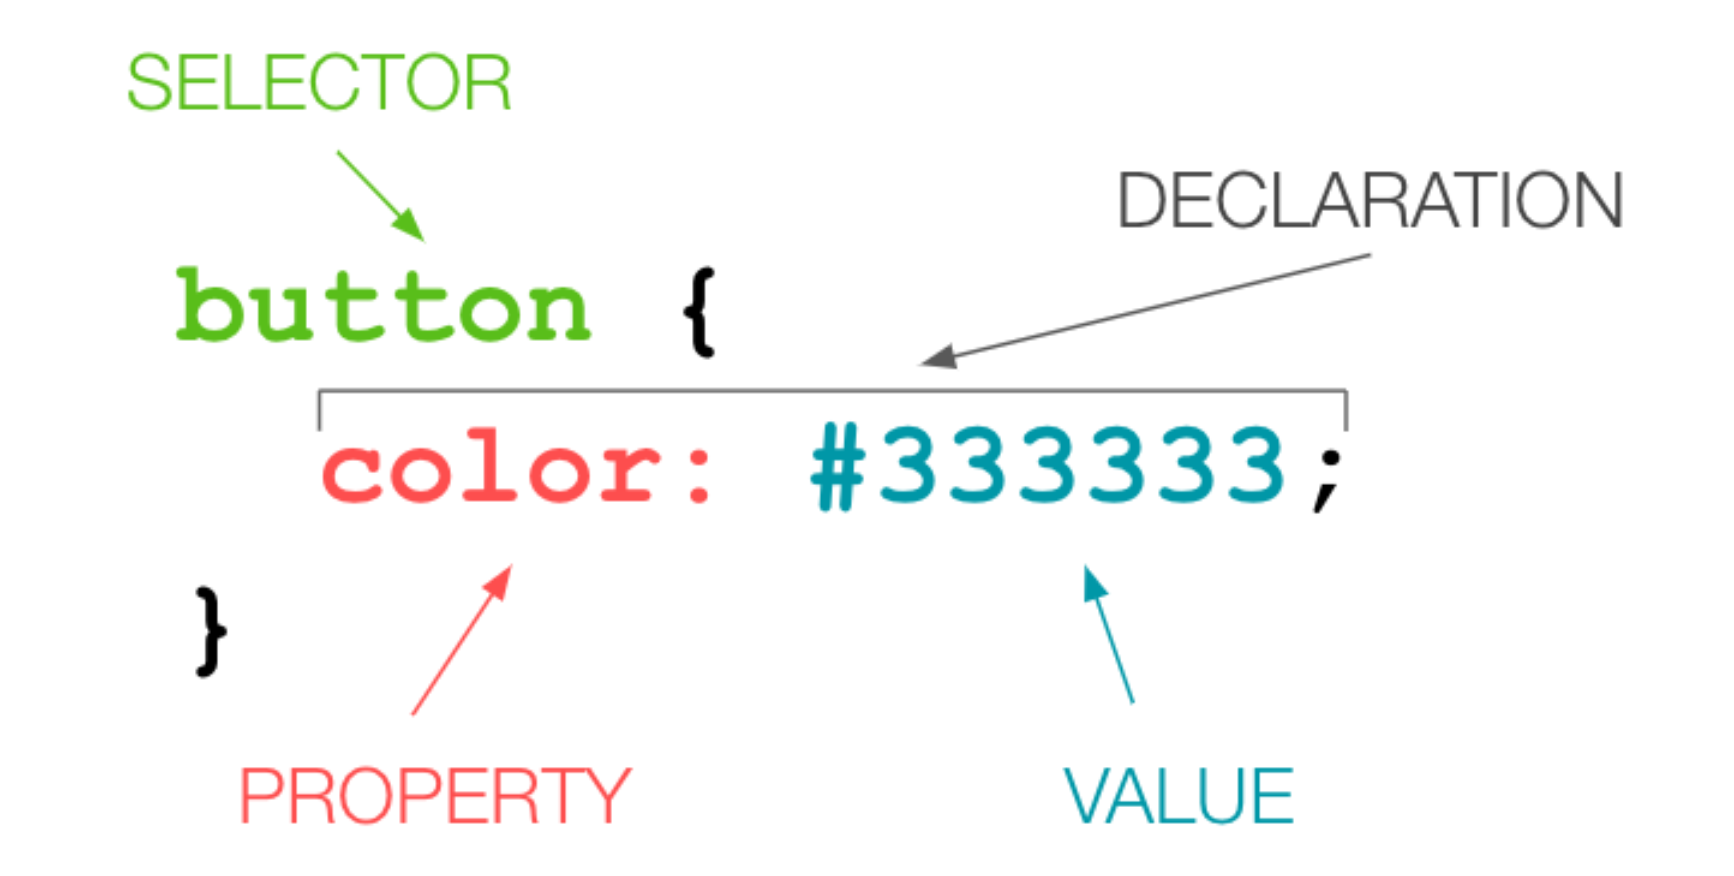
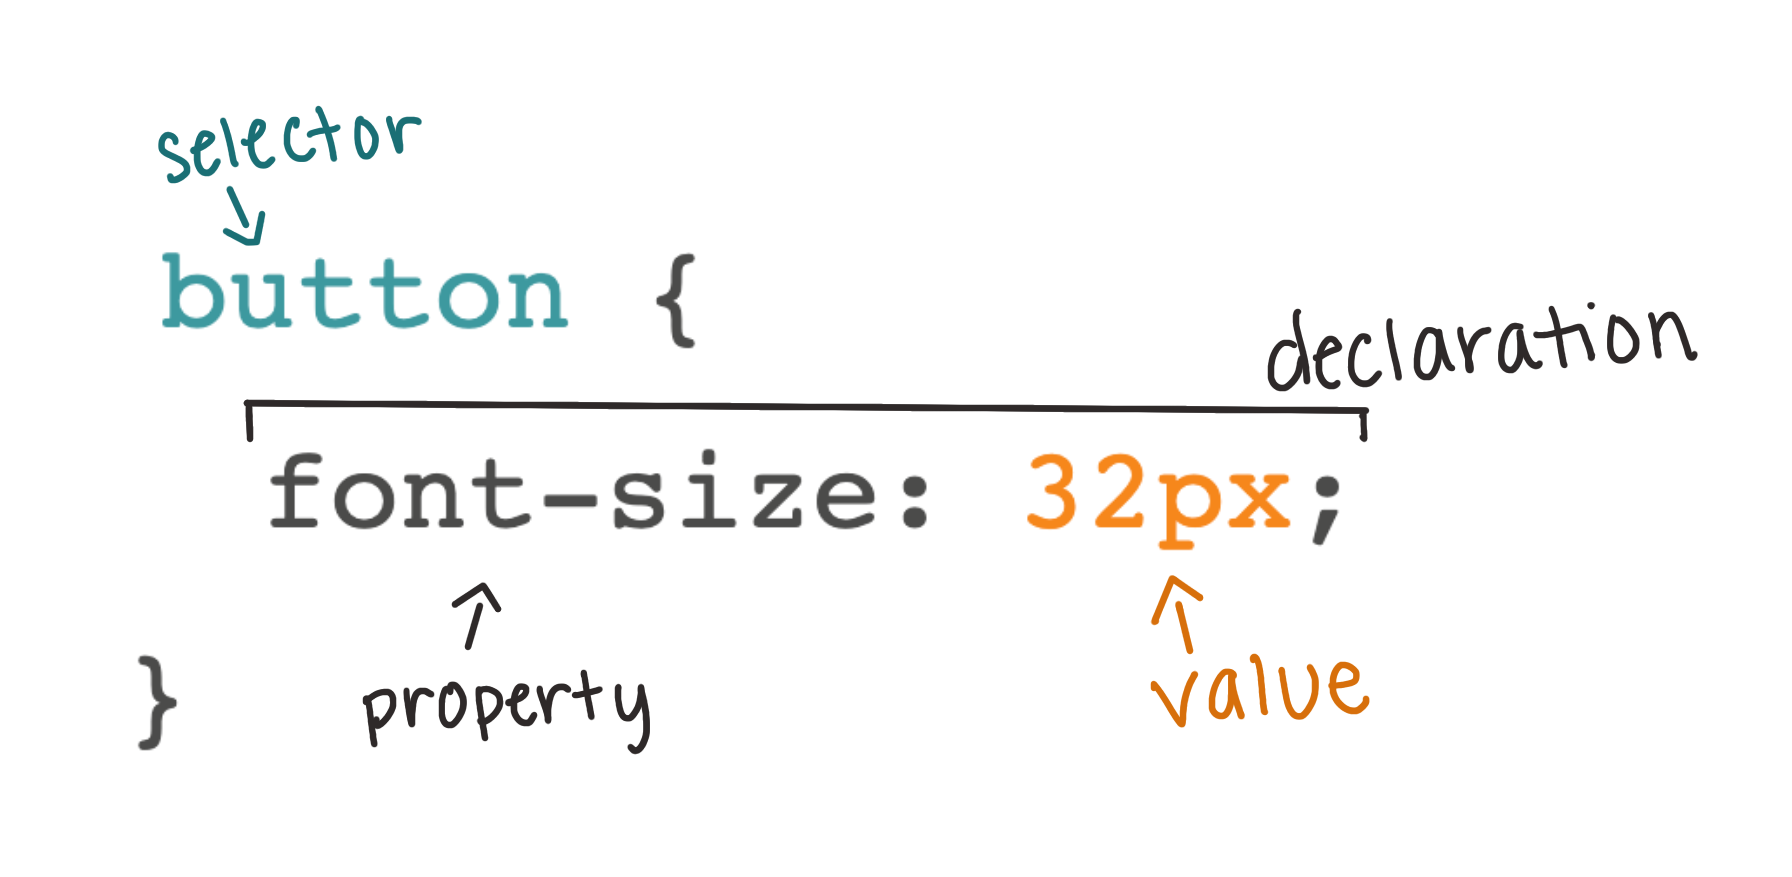
Update FE Weekend curriculum, clean up

diff --git a/fe-weekend/intro-to-css/index.md b/fe-weekend/intro-to-css/index.md
@@ -11,6 +11,8 @@ layout: lesson
 - Style HTML element using CSS rules
 - Use class and ID attributes on HTML elements to more specifically target them in CSS
 
+>For this section, you'll build on the HTML you wrote as part of the pre-work for today!
+
 ## What is CSS?
 
 CSS is a way to add style to HTML documents on the web. It's incredibly powerful!
@@ -22,21 +24,22 @@ While CSS is typically used to control the layout and details of the way a site 
 ## CSS Rules
 
 How do we write CSS code that instructs the browser to make elements appear differently? We write CSS **rules** - a set of instructions for each element to follow.
+<br>
 ![A CSS rule for a button with a color of #333333 and font-size of 32px. The button is labeled selector, color: #333333 is labeled declaration, font-size: is labeled property and 32px is labeled value.](../assets/css-syntax-breakdown.png)
 
 ```css
 button {
-  color: #333333;
+  font-size: 32px;
 }
 ```
 
-In the previous example, the browser will set the color of any button on the page to `#333333`. We can provide multiple declarations inside of a rule, such as:
+In the previous example, the browser will set the font-size of the font within any button on the page to `32px`. We can provide multiple declarations inside of a rule, such as:
 
 ```css
 button {
-  color: #333333;
-  border: 2px solid pink;
-  font-family: Ariel;
+  font-size: 32px;
+  font-family: sans-serif;
+  border-radius: 3px; /* rounds the corners */
 }
 ```
 
@@ -65,8 +68,11 @@ Here are a few great places to start:
 
 <div class="try-it-new">
   <h3>Try It: Exploring CSS</h3>
-  <p>Write a CSS rule that targets the paragraphs, then change their <code class="try-it-code">background-color</code> and <code class="try-it-code">font-size</code>.</p>
-  <p>Next, write a rule that targets the main heading - change the <code class="try-it-code">color</code> of the text and add a <code class="try-it-code">border</code>.</p>
+  <ul>
+    <li>Write a CSS rule that targets the paragraphs, then change their <code class="try-it-code">background-color</code> and <code class="try-it-code">font-size</code>.</li>
+    <li>Write a rule that targets image(s) - change the dimensions to your liking.</li>
+    <li>Write a rule that targets the main heading - change the <code class="try-it-code">color</code> of the text and add a <code class="try-it-code">border</code>.</li>
+  </ul>
   <p>Continue to explore and add declarations to make the site your own!</p>
 
   <div class="spicy-container">
@@ -110,8 +116,8 @@ To target them in CSS, we need to use a specific syntax:
 
 <div class="try-it-new">
   <h3>Try It: Classes & IDs</h3>
-  <p>In the CSS text editor, use a class attribute to give the same styles to 2 of your paragraphs, but not to the other(s).</p>
-  <p>Based on how you'd like to style your page, if you see the need for other classes or IDs, go ahead and implement them!</p>
+  <p>In the HTML text editor, add a class attribute to at least 2 of your paragraphs. In the CSS text editor, use that class to give the same styles to 2 of your paragraphs, but not to the other(s).</p>
+  <p>Based on how you'd like to style your page, if you see the need for additional classes or IDs, go ahead and implement them!</p>
   <p>As you are probably in the habit of by now, observe the changes in the browser.</p>
 </div>
 

diff --git a/fe-weekend/event-listeners/index.md b/fe-weekend/event-listeners/index.md
@@ -24,25 +24,10 @@ Let's look at this example of an event listener and talk through the pieces:
 
 <p class="codepen" data-height="265" data-theme-id="default" data-default-tab="html,result" data-user="turing-trycoding" data-slug-hash="oNxaYbb" style="height: 265px; box-sizing: border-box; display: flex; align-items: center; justify-content: center; border: 2px solid; margin: 1em 0; padding: 1em;" data-pen-title="Event Listeners Example"><span>See the Pen <a href="https://codepen.io/turing-trycoding/pen/oNxaYbb">Event Listeners Example</a> by Try Coding (<a href="https://codepen.io/turing-trycoding">@turing-trycoding</a>)on <a href="https://codepen.io">CodePen</a>.</span></p><script async src="https://static.codepen.io/assets/embed/ei.js"></script>
 
-## Break Things
-
-Earlier, we talked about the mindsets developers must have to be successful: a growth mindset, demonstrated by being curious, resourceful, communicative, and not being afraid to question how things work.
-
-We're going to take a few minutes to really "break" this code to build a deeper understanding of how it's working. If you've had that feeling of "I think I get it, but I couldn't recreate it" or "I basically get this... but if I had to identify one little error, I'd struggle to find it on my own", you are not alone.
-
-When we "break" code, we are engaging in a process of tinkering with it to better understand it. To identify which piece of code plays which role in the functionality, it's important to only **break one tiny thing at a time**!
-
-<p class="codepen" data-height="265" data-theme-id="default" data-default-tab="js,result" data-user="turing-trycoding" data-slug-hash="OJNBbMx" style="height: 265px; box-sizing: border-box; display: flex; align-items: center; justify-content: center; border: 2px solid; margin: 1em 0; padding: 1em;" data-pen-title="Break Things"><span>See the Pen <a href="https://codepen.io/turing-trycoding/pen/OJNBbMx">Break Things</a> by Try Coding (<a href="https://codepen.io/turing-trycoding">@turing-trycoding</a>)on <a href="https://codepen.io">CodePen</a>.</span></p><script async src="https://static.codepen.io/assets/embed/ei.js"></script>
-
-- What happens if you remove lines 2-4 from the JavaScript?
-- Bring back lines 2-4, now remove line 5. What happens?
-- Bring back line 5. Remove lines 8-12. What happens?
-- Why isn't the image changing? Look at line 3 in HTML and line 5 in JS to see if you can identify the problem.
-
 ## Applying What We've Learned
 
 <div class="try-it-new">
-  <h2>Try It: Changing HTML with JavaScript</h2>
+  <h3>Try It: Changing HTML with JavaScript</h3>
   <p>Back in your own Puppy Facts CodePen, add a button in the HTML.</p>
   <p>Write code in the JavaScript pane so that when the button is clicked, the title of the webpage changes to a different topic!</p>
   <p>If you complete that with extra time, change the text in the <code>p</code> tags so that when the button is clicked, the facts match your new topic!</p>

diff --git a/fe-weekend/interacting-with-html/index.md b/fe-weekend/interacting-with-html/index.md
@@ -34,10 +34,10 @@ console.log(greetingMessage);
 ```
 
 <div class="try-it-new">
-  <h2>Try It: Accessing HTML Elements</h2>
-  <p>Fork <a href="https://codepen.io/turing-trycoding/pen/dyMgOoM?editors=1010" target="blank">this Puppy Facts CodePen starter</a>. Declare four variables, each storing one of the four text-based HTML elements already written. You can decide the variable names to use! In order to access each element, you'll need a <em>unique</em> way to identify each one.</p>
+  <h3>Try It: Accessing HTML Elements</h3>
+  <p>Fork <a href="https://codepen.io/turing-trycoding/pen/dyMgOoM?editors=1010" target="blank">this Puppy Facts CodePen starter</a>. Declare three variables, each storing one of the three <code>paragraph</code> elements already written in HTML. You can decide the variable names to use! In order to access each element, you'll need a <em>unique</em> way to identify each one. <em>This has already been done with the <code>h1</code> element; you can use that as an example.</em></p> 
   <p>Print each variable out to the console to verify your syntax is correct.</p>
-  <p><em>Keep this pen open in a tab; we'll come back to it in the next section!</em></p>
+  <p><span role="img" aria-label="open folder">📂</span> Keep this pen open in a tab; we'll come back to it in the next section!</p>
   <div class="help-container">
     <button class="help-click"><span role="img" aria-label="raised hand">🤚</span>Help Me!</button>
     <div class="help-toggle">
@@ -54,16 +54,16 @@ Accessing elements alone isn't _that_ cool, but it gets more exciting when we us
 
 Before we talk through it, take a minute to sit in that productive struggle and **try to sort through what this code is doing, and how**. The guiding questions below will help you, if you need them!
 
-- What is the content inside of each of the `<li>` tags in the HTML file?
+- What is the content inside of each of the `<a>` tags in the HTML file?
 - What content is showing up in the browser for each of the bullet points?
 - On line 4 of the code:
-  - What does `firstListItem` reference?
+  - What does `firstLink` reference?
   - What _might_ `.innerText` be doing?
   - Does `"Front End Workshop"` look familiar?
 
 <div class="try-it-new">
-  <h2>Try It: Changing Text of an Element</h2>
-  <p>Back in your Puppy Facts CodePen, write JavaScript that will change the content of all four text-based HTML elements you created variables for earlier.</p>
+  <h3>Try It: Changing Text of an Element</h3>
+  <p>Back in your Puppy Facts CodePen, write JavaScript that will change the content of the <code>h1</code> and three <code>paragraph</code> elements you have variables for.</p>
   <p>When you've completed this, you should see a different title and set of facts in your browser!</p>
   <a target="blank" href="https://codepen.io/turing-trycoding/pen/LYNgbpp"><em>Here's a CodePen you can start with if you closed yours or didn't get it done.</em></a>
   <br>

diff --git a/fe-weekend/intro-to-js/index.md b/fe-weekend/intro-to-js/index.md
@@ -58,7 +58,7 @@ When we run the code above, we will see the associated values print out in the c
 
 A variable is like a box with a label on it. You can put something in the box, label it, and be able to reference that thing later by its label.
 
-In JavaScript, we declare variables using the `var` keyword. This tells JavaScript that we're about to make a variable.
+In JavaScript, we declare variables using the `var` keyword. This tells JavaScript that we're about to make a new variable, or _declare a variable_.
 
 Variables can store strings (text in between quotation marks), numbers, HTML elements, among many other things! Here are a few examples of JavaScript variables:
 
@@ -78,11 +78,11 @@ Since JavaScript is in charge of user interactions, we may want to hold onto a p
 Variables are at the core of everything we do in programming and this isn't unique to JavaScript.
 
 <div class="try-it-new">
-  <h2>Try It: Variables</h2>
+  <h3>Try It: Variables</h3>
   <p>Create a new pen in CodePen. For this exercise, you will be working in the JavaScript (JS) pane.</p>
-  <p>Declare 4 variables, using the names <code>name</code>, <code>email</code>, <code>numberOfPets</code>, and<code>myLocation</code>. Assign each to an appropriate value.</p>
+  <p>Declare 3 variables, using the names <code>name</code>, <code>email</code>, and <code>numberOfPets</code>. Assign each to an appropriate value.</p>
   <p>Make sure to <code>console.log</code> each variable to verify you've stored it correctly!</p>
-  <p>Finished? Declare at least two more variables - you choose the name and values!</p>
+  <p>Finished? Declare at least 2 more variables - you choose the name and values!</p>
 </div>
 
 ## Interpolation
@@ -101,7 +101,7 @@ Note that _back ticks_ are the characters that surround this combination of the 
 Anything inside the back ticks will be read as a string. But, when the interpreter sees the `${`, it will stop and wait for JavaScript code to read. Typically, we provide a variable name here. When the interpreter read the matching closing bracket - `}` - it goes back to treating characters as part of the string.
 
 <div class="try-it-new">
-  <h2>Try It: Interpolation</h2>
+  <h3>Try It: Interpolation</h3>
   <p>Using interpolation and at least two of the variables you declared in the previous section, write a sentence about yourself! Make sure to print that sentence out to the console.</p>
   <p>Change the value of one of the Strings you interpolated and re-run your code. Is the difference reflected in the output?</p>
 

diff --git a/fe-weekend/what-is-fee/index.md b/fe-weekend/what-is-fee/index.md
@@ -60,9 +60,25 @@ There's a common misconception that the Front-End is only about colors, fonts, a
 
 The Front-End of the web is based on three major technologies:
 
-1. **HTML**: HyperText Markup Language (HTML) defines the structure and semantics of web pages on the web.
-2. **CSS**: Cascading Style Sheets (CSS) sets the look and style of a web page. CSS provides style to the structure provided by HTML.
-3. **JavaScript**: JavaScript allows us to define interaction in our pages. What happens when a user clicks on a certain area?
+<section class="data-type-cards language-cards">
+  <div>
+    <h3>HTML</h3>
+    <p>HTML holds the content we see on a page (text, images, etc.) and defines the structure and order in which the content appears.</p>
+    <img src="../assets/html.png" alt="Drawing of human skeleton" />
+  </div>
+
+  <div>
+    <h3>CSS</h3>
+    <p>CSS defines the look and feel of a webpage - it can change the layout of items on a page, colors, fonts, and you guessed it - animate items!</p>
+    <img src="../assets/css.png" alt="Drawing of clothes and accessories" />
+  </div>
+
+  <div>
+    <h3>JavaScript</h3>
+    <p>JavaScript is what lets the user interact with a page. For example, clicking a button and getting some sort of response.</p>
+    <img src="../assets/js.png" alt="Drawing of human skeleton" />
+  </div>
+</section>
 
 Many libraries and frameworks have been built _on top_ of JavaScript that make Front-End development even more robust and powerful! If you hear terms like React, Vue, Ember, Angular... those are all JavaScript frameworks used to build professional level applications.
 

diff --git a/fe-weekend/html-review/index.md b/fe-weekend/html-review/index.md
@@ -23,15 +23,5 @@ Look at the HTML in the CodePen below. Using what you learned from the pre-work:
 
 <p class="codepen" data-height="317" data-theme-id="light" data-default-tab="html,result" data-user="turing-trycoding" data-slug-hash="zYBLeLL" style="height: 317px; box-sizing: border-box; display: flex; align-items: center; justify-content: center; border: 2px solid; margin: 1em 0; padding: 1em;" data-pen-title="HTML Review"><span>See the Pen <a href="https://codepen.io/turing-trycoding/pen/zYBLeLL">HTML Review</a> by Try Coding (<a href="https://codepen.io/turing-trycoding">@turing-trycoding</a>) on <a href="https://codepen.io">CodePen</a>.</span></p><script async src="https://static.codepen.io/assets/embed/ei.js"></script>
 
-<div class="try-it-new">
-  <h2>Try It: Containers!</h2>
-  <p>Choose a CodePen starter below and <span role="img" aria-label="fork and knife emoji">🍴</span>fork (copy) it to your own account. Use what you know about the elements available to you to add some content to this site!</p>
-  <p>While working through this challenge, pay attention to this programmer skill: <em>attention to detail</em></p>
-  <ul>
-    <li><a href="https://codepen.io/turing-trycoding/pen/qBNygGw?editors=1100" target="blank">All About Giant Pandas</a></li>
-    <li><a href="https://codepen.io/turing-trycoding/pen/ExypMar?editors=1100" target="blank">Our Solar System</a></li>
-  </ul>
-</div>
-
 <br>
 <a href="../intro-to-css">Next: Intro to CSS</a>

diff --git a/fe-weekend/index.md b/fe-weekend/index.md
@@ -6,9 +6,22 @@ layout: lesson
 
 Please complete the [pre-work that is outlined here](./pre-work) before attending the workshop
 
+## Welcome Back!
+
+- Open up <a target="blank" href="http://codepen.io/">codepen.io</a> in a browser (preferably Chrome) and login to your account
+- Change Zoom display name to first name, last initial, pronouns; _ie - Amy H. (she/her)_
+
+### Today's Agenda
+
+Over the course of the day, we will write (more) code, continue to embrace productive struggle, and learn more about Turing.  We will ask you to share your code and be proactive about asking questions! Below is our agenda for the day:
+
+- Welcome & Setup (30 mins)
+- Instruction (1.5 hours)
+- Alumni Panel (1 hour) 
+- Instruction, Wrap Up (2 hours)
+
 ## Instructor-Led Content
 
-- [Welcome](./welcome)
 - [What is Front-End Engineering?](./what-is-fee)
 - [HTML Review](./html-review)
 - [Intro to CSS](./intro-to-css)
@@ -16,4 +29,3 @@ Please complete the [pre-work that is outlined here](./pre-work) before attendin
 - [Interacting with HTML](./interacting-with-html)
 - [Extension: Event Listeners](./event-listeners)
 - [Wrap Up](./wrap-up)
-

diff --git a/fe-weekend/wrap-up/index.md b/fe-weekend/wrap-up/index.md
@@ -16,7 +16,7 @@ Please share about your experience, and how we can best support you moving forwa
 ## Additional Resources
 
 - Learn more about the difference between Front-End and Back-End, and what you will learn and build at Turing by checking out [the program progression](../../what-students-learn)
-- <a target="blank" href="https://www.codecademy.com/learn/introduction-to-javascript">Codeacademy’s Javascript Course</a>
+- <a target="blank" href="https://www.codecademy.com/learn/introduction-to-javascript">Codeacademy’s JavaScript Course</a>
 - Jon Duckett's Front-End books (you can find these with a Google search)
 - <a target="blank" href="https://scrimba.com/g/gflexbox">Scrimba Flexbox course</a>
 
